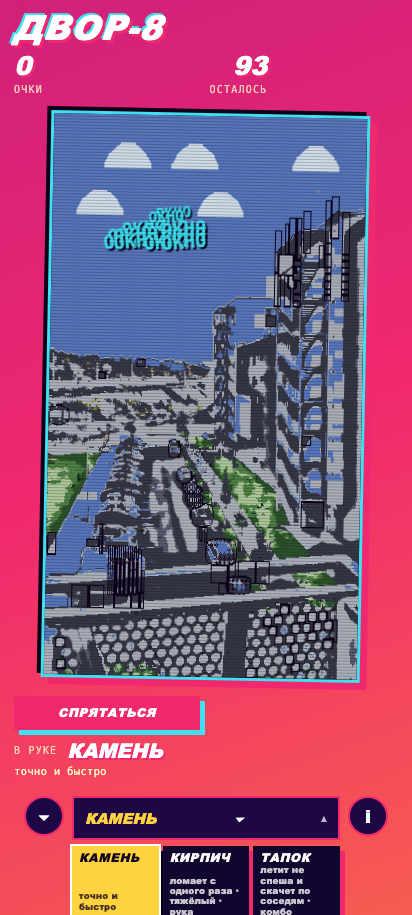
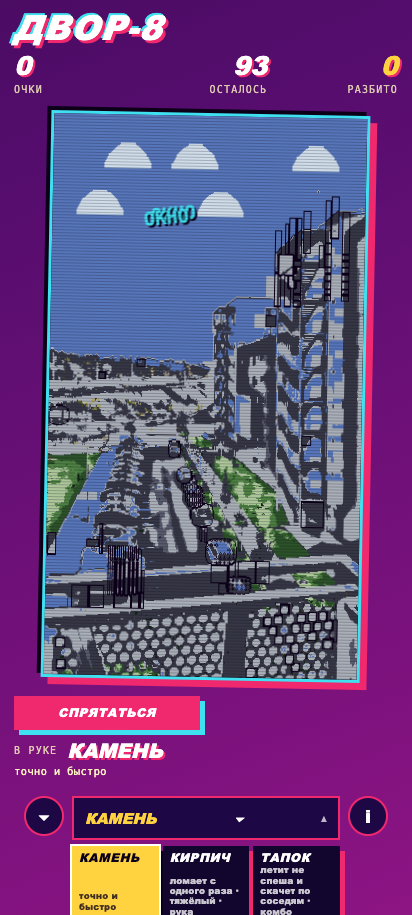
РАЗБИТО n in the HUD; the car-colour post-pass reverted with its reason recorded - it belongs inside the reduction. Both real photographs verified: 64 and 93 targets

diff --git a/src/main.js b/src/main.js
@@ -11,6 +11,7 @@ import { styliseVector } from './stylise.js';
 import { toRegions, TARGETS } from './objects.js';
 import { loadDetector, detectAll, DETECT_LONG } from './detect.js';
 import { makeWorld, pick, strike, tick, left } from './world.js';
+import { RAMPS } from './flat.js';   // STEPS is already imported above; two imports of it is a hard error
 import { makeFx, throwThing, impact, burst, stepFx, shakeOffset } from './fx.js';
 import { MODES, splashTargets, chainNext } from './modes.js';
 import { THROWABLES, ORDER as THROW_ORDER, throwWith, aimWith } from './throwables.js';
@@ -376,6 +377,18 @@ function begin() {
       hp: 3, hits: 0, seen: true, gone: false,
     });
   }
+  // ---- A CAR KEEPS ITS OWN COLOUR: NOT HERE -------------------------------------------------------------
+  //
+  // This was attempted as a post-pass over `world.idx` and it broke the build - the yard came out empty with a clean
+  // console, because the throw was swallowed by the build's own try/catch and the player saw "ничего не нашлось".
+  // The reduction that loses the colour happens INSIDE styliseVector (the areas-first pass averages a whole region
+  // into the wall's tones), so the fix belongs there, at the point the region's pixels are reduced - not after the
+  // world is built. Recorded rather than left as a half-working pass.
+  // ---- РАЗБИТО n: THE COUNT THE TARGET FRAME SHOWS -----------------------------------------------------
+  const brokenEl = document.getElementById('broken');
+  const brokenCount = () => world.regions.reduce((acc, r) => acc + (r.hits > 0 ? 1 : 0), 0);
+  if (brokenEl) { brokenEl.textContent = String(brokenCount()); setInterval(() => { brokenEl.textContent = String(brokenCount()); }, 400); }
+
   // THE WORLD IS READABLE FROM THE PAGE, on purpose: the self-evaluation (clustering, outlines, cars) runs in the
   // browser against the LIVE world, and a probe that cannot see it can only guess. It is a read-only handle.
   if (typeof window !== 'undefined') window.__world = world;

diff --git a/style.css b/style.css
@@ -171,3 +171,8 @@ body[data-hidden="true"] #hideBtn { background: var(--gold); color: var(--ink); 
 .selfRow { font: 11px/1.35 ui-monospace, monospace; color: #cfe9ff; }
 .selfRow b { color: #30e1b9; margin-right: 6px; }
 .selfRow i { color: #8fa9c9; font-style: normal; margin-left: 6px; }
+
+/* РАЗБИТО n: the target frame shows a count of what the player has broken. It sits beside the score, in the same
+   style, so the two numbers are read the same way. */
+.left.broken { margin-left: 10px; }
+.left.broken b { color: #ffd23f; }

diff --git a/index.html b/index.html
@@ -14,6 +14,7 @@
     <div class="score"><b id="score">0</b><span>очки</span></div>
     <div class="combo"><b id="combo">—</b><i><u id="comboBar"></u></i></div>
     <div class="left"><b id="left">0</b><span>осталось</span></div>
+    <div class="left broken"><b id="broken">0</b><span>разбито</span></div>
   </div>
 </header>
 

diff --git a/START-HERE.md b/START-HERE.md
@@ -28,6 +28,27 @@ page: 65 targets · console clean · 116 tones, largest 31% (no collapse)
 Buildings exist as things because **COCO has no building class**: they are the world's own `structures` (6 on the
 creator's photograph), turned into regions.
 
+## Where the product stands (two unseen photographs, both measured)
+
+```
+photo 1  Prague street      64 targets · sky 31% · 85 tones · largest non-sky entry 27% · console clean
+photo 2  balcony car park   93 targets · sky 38% · 22 tones · largest non-sky entry 28% · console clean
+gates    preflight OK · imports clean · tones no collapse (sky exempt) · page builds
+proven   each gate REFUSES a mutation: a deleted import, a synthetic wash, an altered load-bearing statement
+```
+
+## The next action, exactly
+
+**The cut-out's colour, and it must be done inside `styliseVector`.** A car keeps its pixels but not its colour: the
+areas-first reduction averages a whole region into the wall's tones, so a red car, a white van and a dark estate all
+come out neutral. It was attempted as a post-pass over `world.idx` in `main.js` and it BROKE the build (an empty yard
+with a clean console, because the throw was swallowed by the build's own try/catch) - the reason is recorded in the
+source where the attempt was. The fix belongs at the point the region's pixels are REDUCED: give each region its own
+family (saturation >= 0.30 never resolves to concrete) and choose tones inside it.
+
+Then: the checkered facade (every second bay one tone up, only where the photograph shows it), and the last typed
+constants (cloud inset, pitch floors, the smoothness bound) derived from the picture.
+
 ## The next action, exactly
 
 **The clouds do not reach the frame: cloud-white measures 0% of pixels.** Measured progress on the sky this round:
